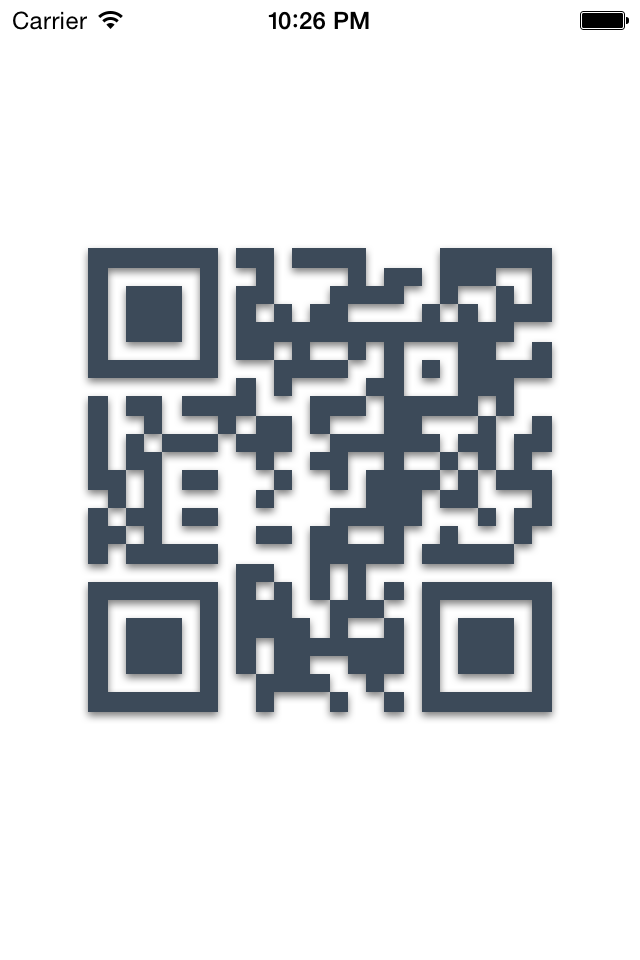
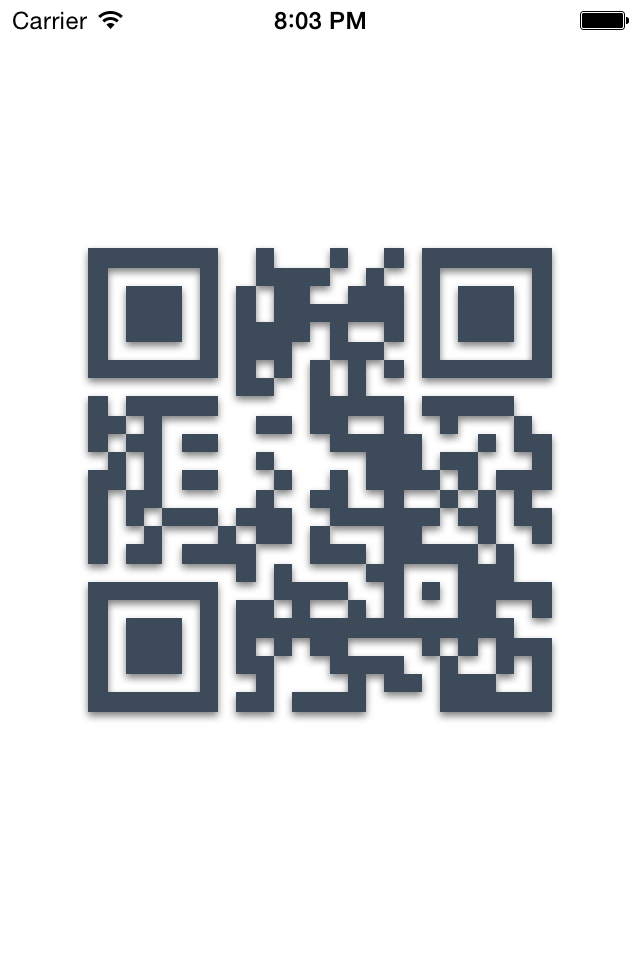
fix scale bug

Changed region(s): [[0.125, 0.25, 0.875, 0.75], [0.4062, 0.0, 0.5938, 0.0312]]

diff --git a/Demo-CustomQRCore/ViewController.m b/Demo-CustomQRCore/ViewController.m
@@ -36,20 +36,24 @@
 
 #pragma mark - InterpolatedUIImage
 - (UIImage *)createNonInterpolatedUIImageFormCIImage:(CIImage *)image withSize:(CGFloat) size {
-    // Render the CIImage into a CGImage
-    CGImageRef cgImage = [[CIContext contextWithOptions:nil] createCGImage:image fromRect:image.extent];
-    // Now we'll rescale using CoreGraphics
-    UIGraphicsBeginImageContext(CGSizeMake(size, size));
-    CGContextRef context = UIGraphicsGetCurrentContext();
-    // We don't want to interpolate (since we've got a pixel-corrent image)
-    CGContextSetInterpolationQuality(context, kCGInterpolationNone);
-    CGContextDrawImage(context, CGContextGetClipBoundingBox(context), cgImage);
-    // Get the image out
-    UIImage *scaledImage = UIGraphicsGetImageFromCurrentImageContext();
-    // Tidy up
-    UIGraphicsEndImageContext();
-    CGImageRelease(cgImage);
-    return scaledImage;
+    CGRect extent = CGRectIntegral(image.extent);
+    CGFloat scale = MIN(size/CGRectGetWidth(extent), size/CGRectGetHeight(extent));
+    // create a bitmap image that we'll draw into a bitmap context at the desired size;
+    size_t width = CGRectGetWidth(extent) * scale;
+    size_t height = CGRectGetHeight(extent) * scale;
+    CGColorSpaceRef cs = CGColorSpaceCreateDeviceGray();
+    CGContextRef bitmapRef = CGBitmapContextCreate(nil, width, height, 8, 0, cs, (CGBitmapInfo)kCGImageAlphaNone);
+    CIContext *context = [CIContext contextWithOptions:nil];
+    CGImageRef bitmapImage = [context createCGImage:image fromRect:extent];
+    CGContextSetInterpolationQuality(bitmapRef, kCGInterpolationNone);
+    CGContextScaleCTM(bitmapRef, scale, scale);
+    CGContextDrawImage(bitmapRef, extent, bitmapImage);
+    // Create an image with the contents of our bitmap
+    CGImageRef scaledImage = CGBitmapContextCreateImage(bitmapRef);
+    // Cleanup
+    CGContextRelease(bitmapRef);
+    CGImageRelease(bitmapImage);
+    return [UIImage imageWithCGImage:scaledImage];
 }
 
 #pragma mark - QRCodeGenerator
